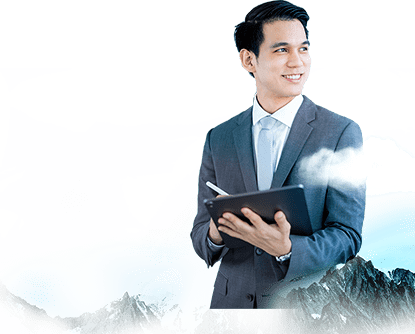
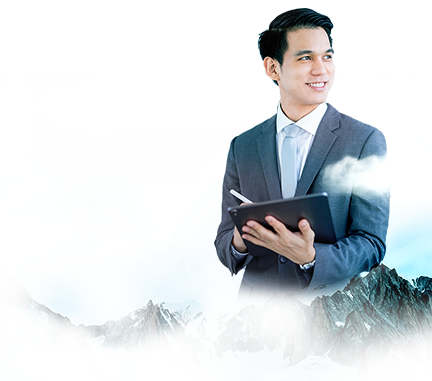
問題修正

diff --git a/style/animation.css b/style/animation.css
@@ -1180,9 +1180,11 @@
     top: 50%;
     height: 2px;
     background: rgba(227,223,186,1);
-    background: -moz-linear-gradient(-45deg, rgba(227,223,186,1), rgba(0,0,255,0));
-    background: -webkit-linear-gradient(-45deg, rgba(227,223,186,1),rgba(0,0,255,0));
-    background: linear-gradient(-45deg, rgba(227,223,186,1),rgba(0,0,255,0));
+    background: -moz-linear-gradient(-45deg, rgba(227,223,186,1) 70%, rgba(233, 231, 215, 0));
+    background: -webkit-linear-gradient(-45deg, rgba(227,223,186,1) 70%,rgba(233, 231, 215, 0));
+    background: linear-gradient(-45deg, rgba(227,223,186,1) 70%,rgba(233, 231, 215, 0));
+    background: rgba(227,223,186,1);
+  
     border-radius: 999px;
     animation:  tail 3000ms ease-in-out infinite,
                 shooting 3000ms ease-in-out infinite;

diff --git a/style/index.css b/style/index.css
@@ -476,8 +476,8 @@ img.pic_peopel2{
 	right: 50%;
 }
 img.pic_peopel3{
-	height: 78%;
-	top: -15%;
+	height: 90%;
+	top: -5%;
 	right: 10%;
 	opacity: 0;
 	transition: all 500ms cubic-bezier(0.55, 0, 0.42, 1) .5s;
@@ -1998,8 +1998,8 @@ footer{
 		right: 55%;
 	}
 	img.pic_peopel3{
-		top: 0;
-		height: 70%;
+		top: 10%;
+		height: 80%;
 	}
 	.active.banner_item4 .pic_peopel3{
 		right: 0;
